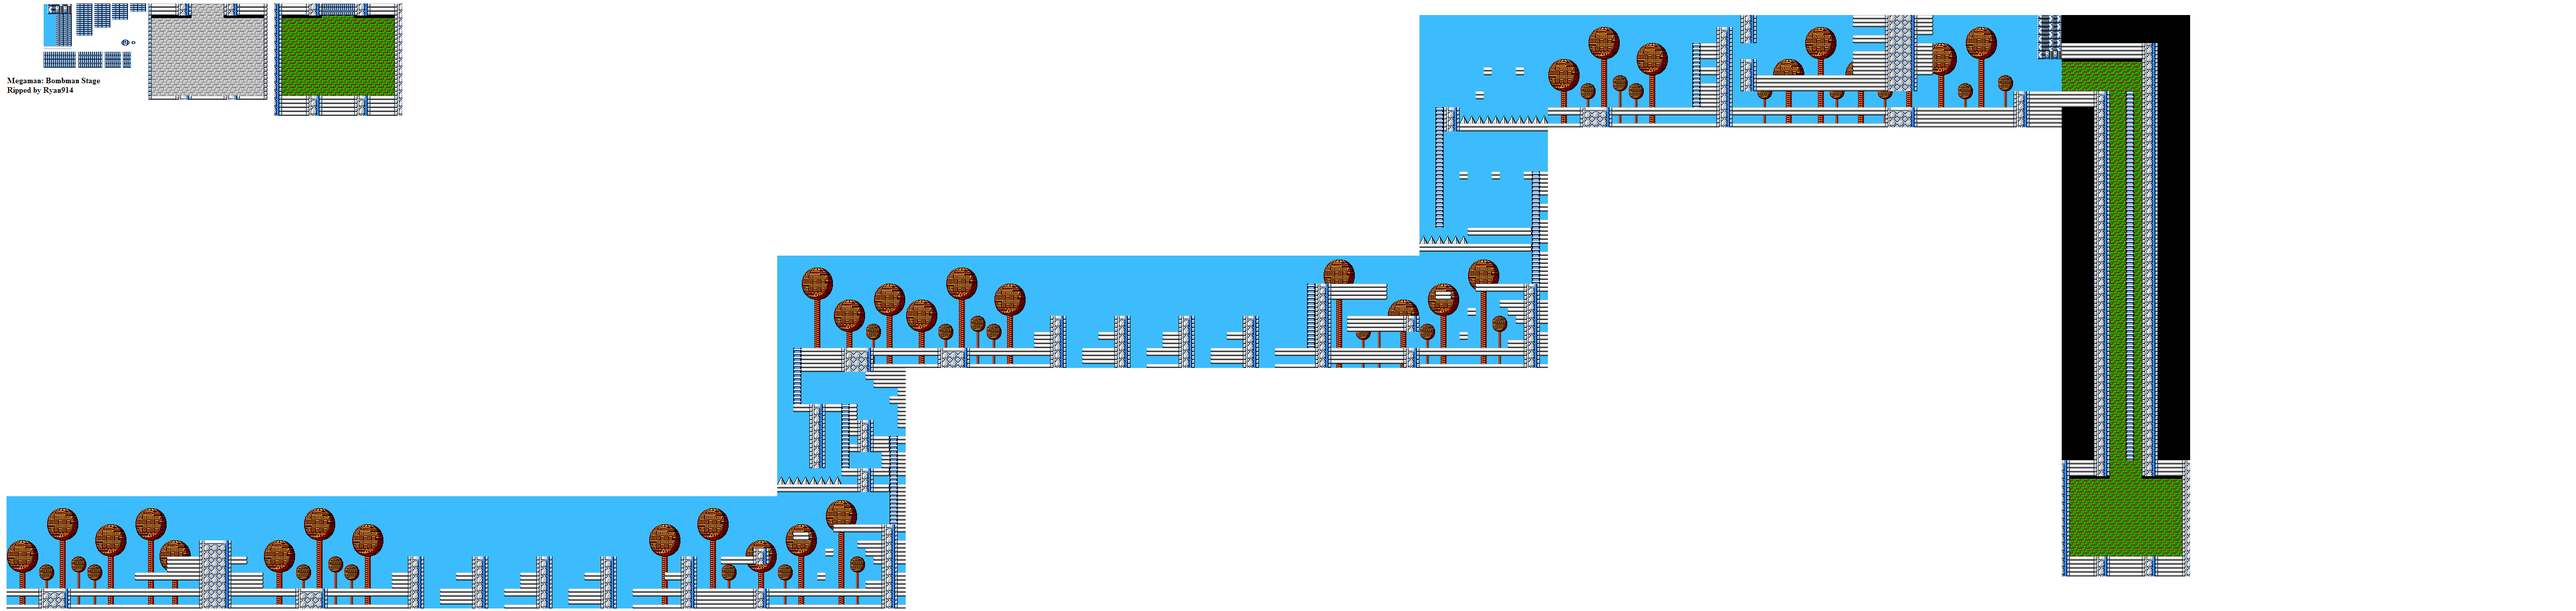
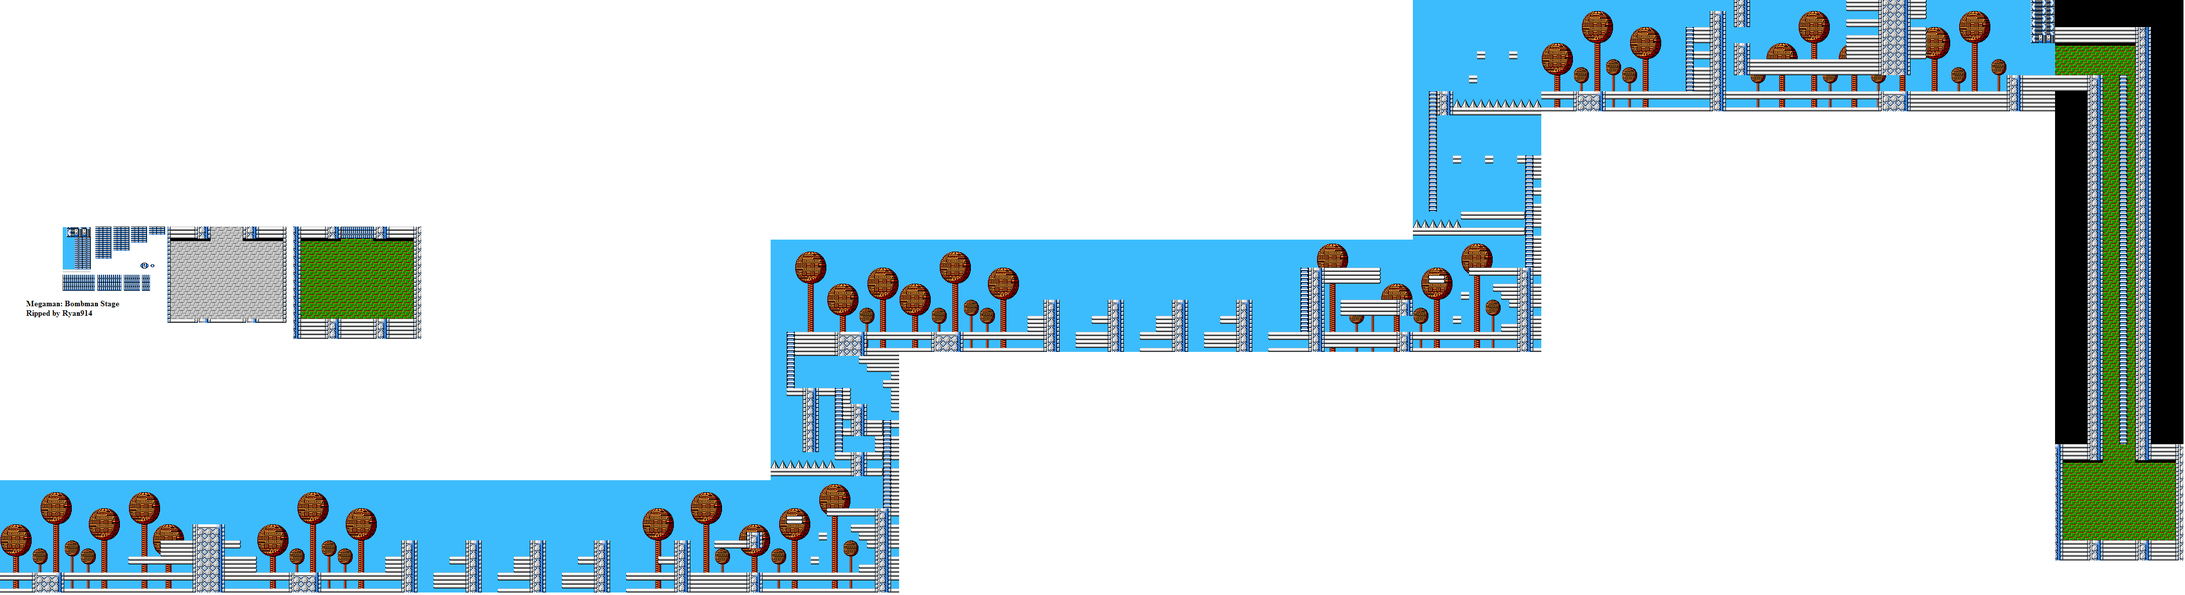
stashing

diff --git a/cFiles/MultiPlayerManager.cpp b/cFiles/MultiPlayerManager.cpp
@@ -25,24 +25,42 @@ void MultiPlayerManager::draw(){
 }
 
 void MultiPlayerManager::assignPorts(){
-    vector <ofSerialDeviceInfo> deviceList = ports.getDeviceList(); 
-    for(int i =0; i<deviceList.size();i++){ 
+    vector <ofSerialDeviceInfo> deviceList = ports.getDeviceList();
+    for(int i =0; i<deviceList.size();i++){
         if(ports.setup(deviceList[i].getDevicePath(), 9600)){
-            availblePorts.push_back(deviceList[i].getDevicePath()); 
-			ports.close();
+            std::size_t found = deviceList[i].getDevicePath().find("Blue");
+            if(found==std::string::npos){ //if string path doesnt contain BLUE for bluetooth
+                if(i>0){
+                    bool dupplicate = false;
+                    for(int p = 0;p < availblePorts.size();p++){
+                        if(deviceList[i].getDevicePath() == availblePorts[p]){
+                            dupplicate = true;
+                        }
+                    }
+                    if(!dupplicate){
+                        found = deviceList[i].getDevicePath().find("cu");
+                        if(found==std::string::npos){
+                            availblePorts.push_back(deviceList[i].getDevicePath());
+                        }
+                    }
+                }else{
+                    availblePorts.push_back(deviceList[i].getDevicePath());
+                }
+            }
+            ports.close();
         }
-    } 
-    for(int i =0; i < availblePorts.size(); i++){ 
-			cout << "devicePort: " << availblePorts[i] << endl;
-			//setup player and its controller. delete controller so that menu has access to port
-			Player *p;
-			p = new Player(availblePorts[i], 50, 1150, isPlayerOne);
-			isPlayerOne = false;
-			ofApp::collisionObjects.insert(make_pair(this, "player" + ofToString(i+1)));
-			p->setup();  
-			players.push_back(p);
-		}
-  
+    }
+    cout << "ConnectedPorts: " << availblePorts.size() << endl;
+    for(int i =0; i < availblePorts.size(); i++){
+        cout << "devicePort: " << availblePorts[i] << endl;
+        //setup player and its controller. delete controller so that menu has access to port
+        Player *p;
+        p = new Player(availblePorts[i], 50, 1150, isPlayerOne);
+        isPlayerOne = false;
+        ofApp::collisionObjects.insert(make_pair(this, "player" + ofToString(i+1)));
+        p->setup();
+        players.push_back(p);
+    }
 }
 MultiPlayerManager::MultiPlayerManager(){
     assignPorts();

diff --git a/cFiles/ofApp.cpp b/cFiles/ofApp.cpp
@@ -17,10 +17,10 @@ string s;
 //--------------------------------------------------------------
 void ofApp::setup(){ 
 
-    
-	//world setup 
-	background.load("images/bombManStage.png"); 
-	menuBackground.load("images/titleBackground.jpg"); 
+	//world setup
+    //ofLoadImage(p, "images/bombManStage.png");
+	background.load("images/bombManStage.png");
+	menuBackground.load("images/titleBackground.jpg");
 	world.init(); 
 	world.enableEvents();
 	world.setFPS(60.0); 
@@ -75,7 +75,6 @@ void ofApp::setup(){
 
 	//setup camera 
 	camera.setVFlip(true); 
-	
 }
 
 //--------------------------------------------------------------
@@ -113,14 +112,11 @@ void ofApp::update(){
 		/*for (int i = 0; i < 1; i++) {
 			items[i]->update();
 		}*/
-		 
 	}	
 }
 
 //--------------------------------------------------------------
 void ofApp::draw(){
-	
-	
 	//title background 
 	menuBackground.draw(0, 0, ofGetWidth(), ofGetHeight());
 	camera.begin();
@@ -129,11 +125,8 @@ void ofApp::draw(){
 
 		//draw in game background 
 
-		
 		ofSetColor(color);
-		background.draw(0, 0, 5134, 1219);
-		
-		
+		background.draw(0, 0, 4355, 1187);
 		
 		//player management
 		mpm->draw();

diff --git a/cFiles/main.cpp b/cFiles/main.cpp
@@ -3,8 +3,8 @@
 
 //========================================================================
 int main( ){
-	ofSetupOpenGL(1600, 1500, OF_FULLSCREEN);			// <-------- setup the GL context
-
+	ofSetupOpenGL(1600, 800, OF_WINDOW);			// <-------- setup the GL context
+    
 	// this kicks off the running of my app
 	// can be OF_WINDOW or OF_FULLSCREEN
 	// pass in width and height too:

diff --git a/cFiles/ofApp.h b/cFiles/ofApp.h
@@ -32,7 +32,8 @@ class ofApp : public ofBaseApp{
 		void contactEnd(ofxBox2dContactArgs &e);
 
 		vector <shared_ptr<ofxBox2dCircle>> circles;
-		ofImage background; 
+		ofImage background;
+        ofPixels p;
 		ofImage menuBackground;
 		ofImage soccerBall;
 		ofImage block;  

diff --git a/cFiles/Environment.cpp b/cFiles/Environment.cpp
@@ -20,5 +20,4 @@ void Environment::update() {
 void Environment::draw() {  
 		/*ofSetColor(0, 0, 0, 150);
 		eCollider.get()->draw();*/
-
 }
